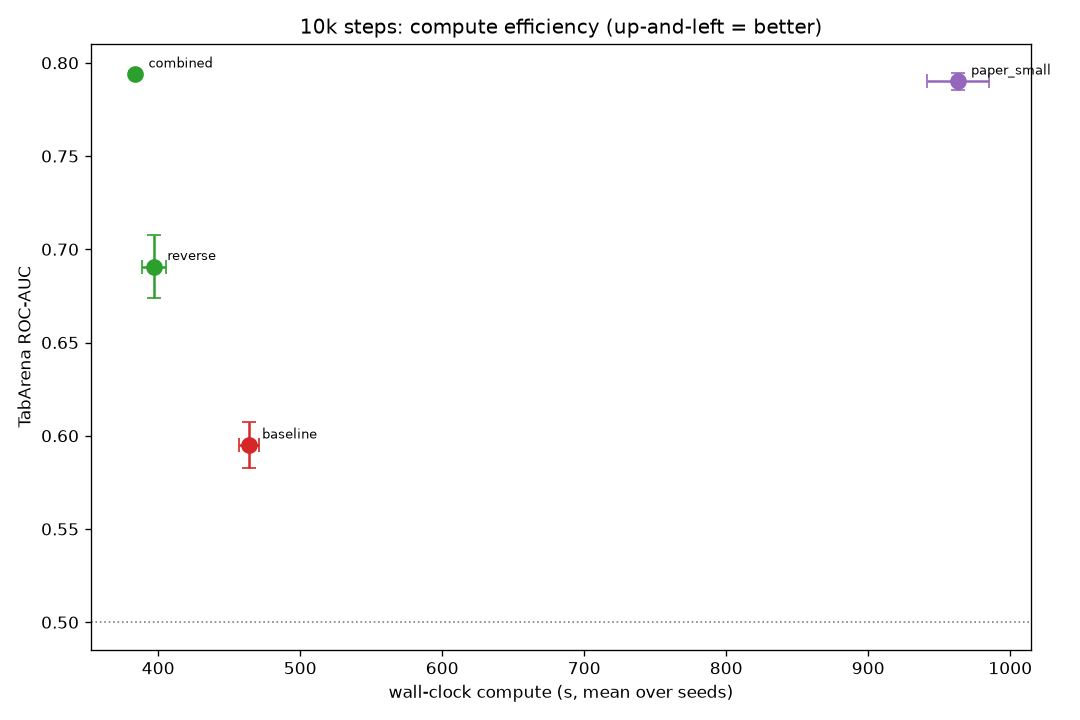
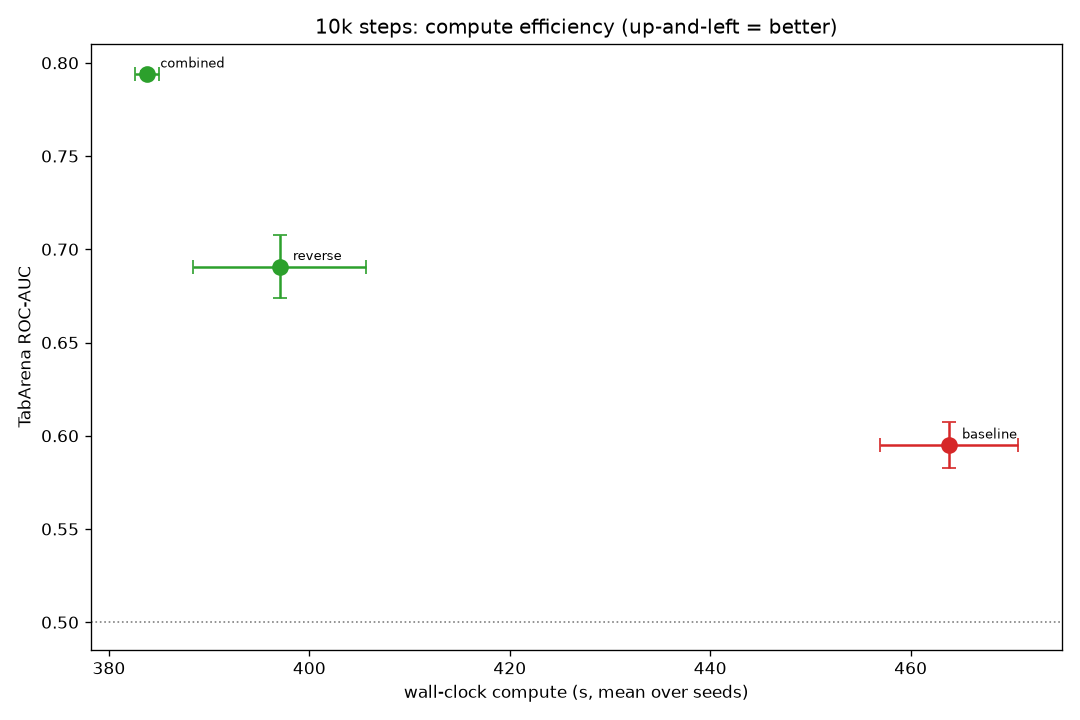
Drop paper_small from plots; add tuned (paper-recipe) baseline + combined
- compare_by_budget: paper_small excluded from figures (different lr/batch/model,
  963s - not comparable on the compute axis). It stays a cited number.
- baseline_tuned / curriculum_combined_tuned: our model + prior + curriculum, but
  the paper's training recipe (lr 3.9e-3, batch 32) instead of ours (1e-4, batch 1).
  Tests whether the curriculum win survives a properly-tuned baseline, or was
  partly an under-tuning artifact.
- convergence figure now clean (baseline/combined/reverse across 2k/5k/10k)

diff --git a/scripts/compare_by_budget.py b/scripts/compare_by_budget.py
@@ -29,6 +29,10 @@ def load():
     for m in glob.glob(str(BASE) + "/results/*_s*/meta.json"):
         d = json.loads(open(m).read())
         base = re.sub(r"(_e\d+)?_s\d+$", "", d["name"])
+        # paper_small uses a different recipe (lr/batch/model) - it's a cited
+        # reference number, not comparable on these axes, so keep it off the plots
+        if base == "paper_small":
+            continue
         r = {"base": base, "steps": d.get("total_steps"), "t": d.get("elapsed_s")}
         sc = m.replace("meta.json", "tabarena_scores.json")
         try:
@@ -58,8 +62,7 @@ def colour(base):
 
 def efficiency(runs, steps):
     g = defaultdict(lambda: defaultdict(list))
-    # this budget's runs, plus paper_small as a fixed reference in every figure
-    for r in (x for x in runs if x["steps"] == steps or x["base"] == "paper_small"):
+    for r in (x for x in runs if x["steps"] == steps):
         g[r["base"]]["t"].append(r["t"])
         g[r["base"]]["auc"].append(r["auc"])
     fig, ax = plt.subplots(figsize=(9, 6))
@@ -101,10 +104,6 @@ def convergence(runs):
     if not drawn:
         plt.close()
         return
-    # paper_small as a horizontal reference line, if it's been run
-    paper = [r["auc"] for r in runs if r["base"] == "paper_small" and r["auc"] is not None]
-    if paper:
-        ax.axhline(ms(paper)[0], ls="--", c="tab:purple", lw=1.4, label="paper_small (ref)")
     ax.axhline(0.5, ls=":", c="gray", lw=1)
     ax.set(xlabel="training steps", ylabel="TabArena ROC-AUC",
            title="Convergence: does the curriculum gap hold with more training?")
